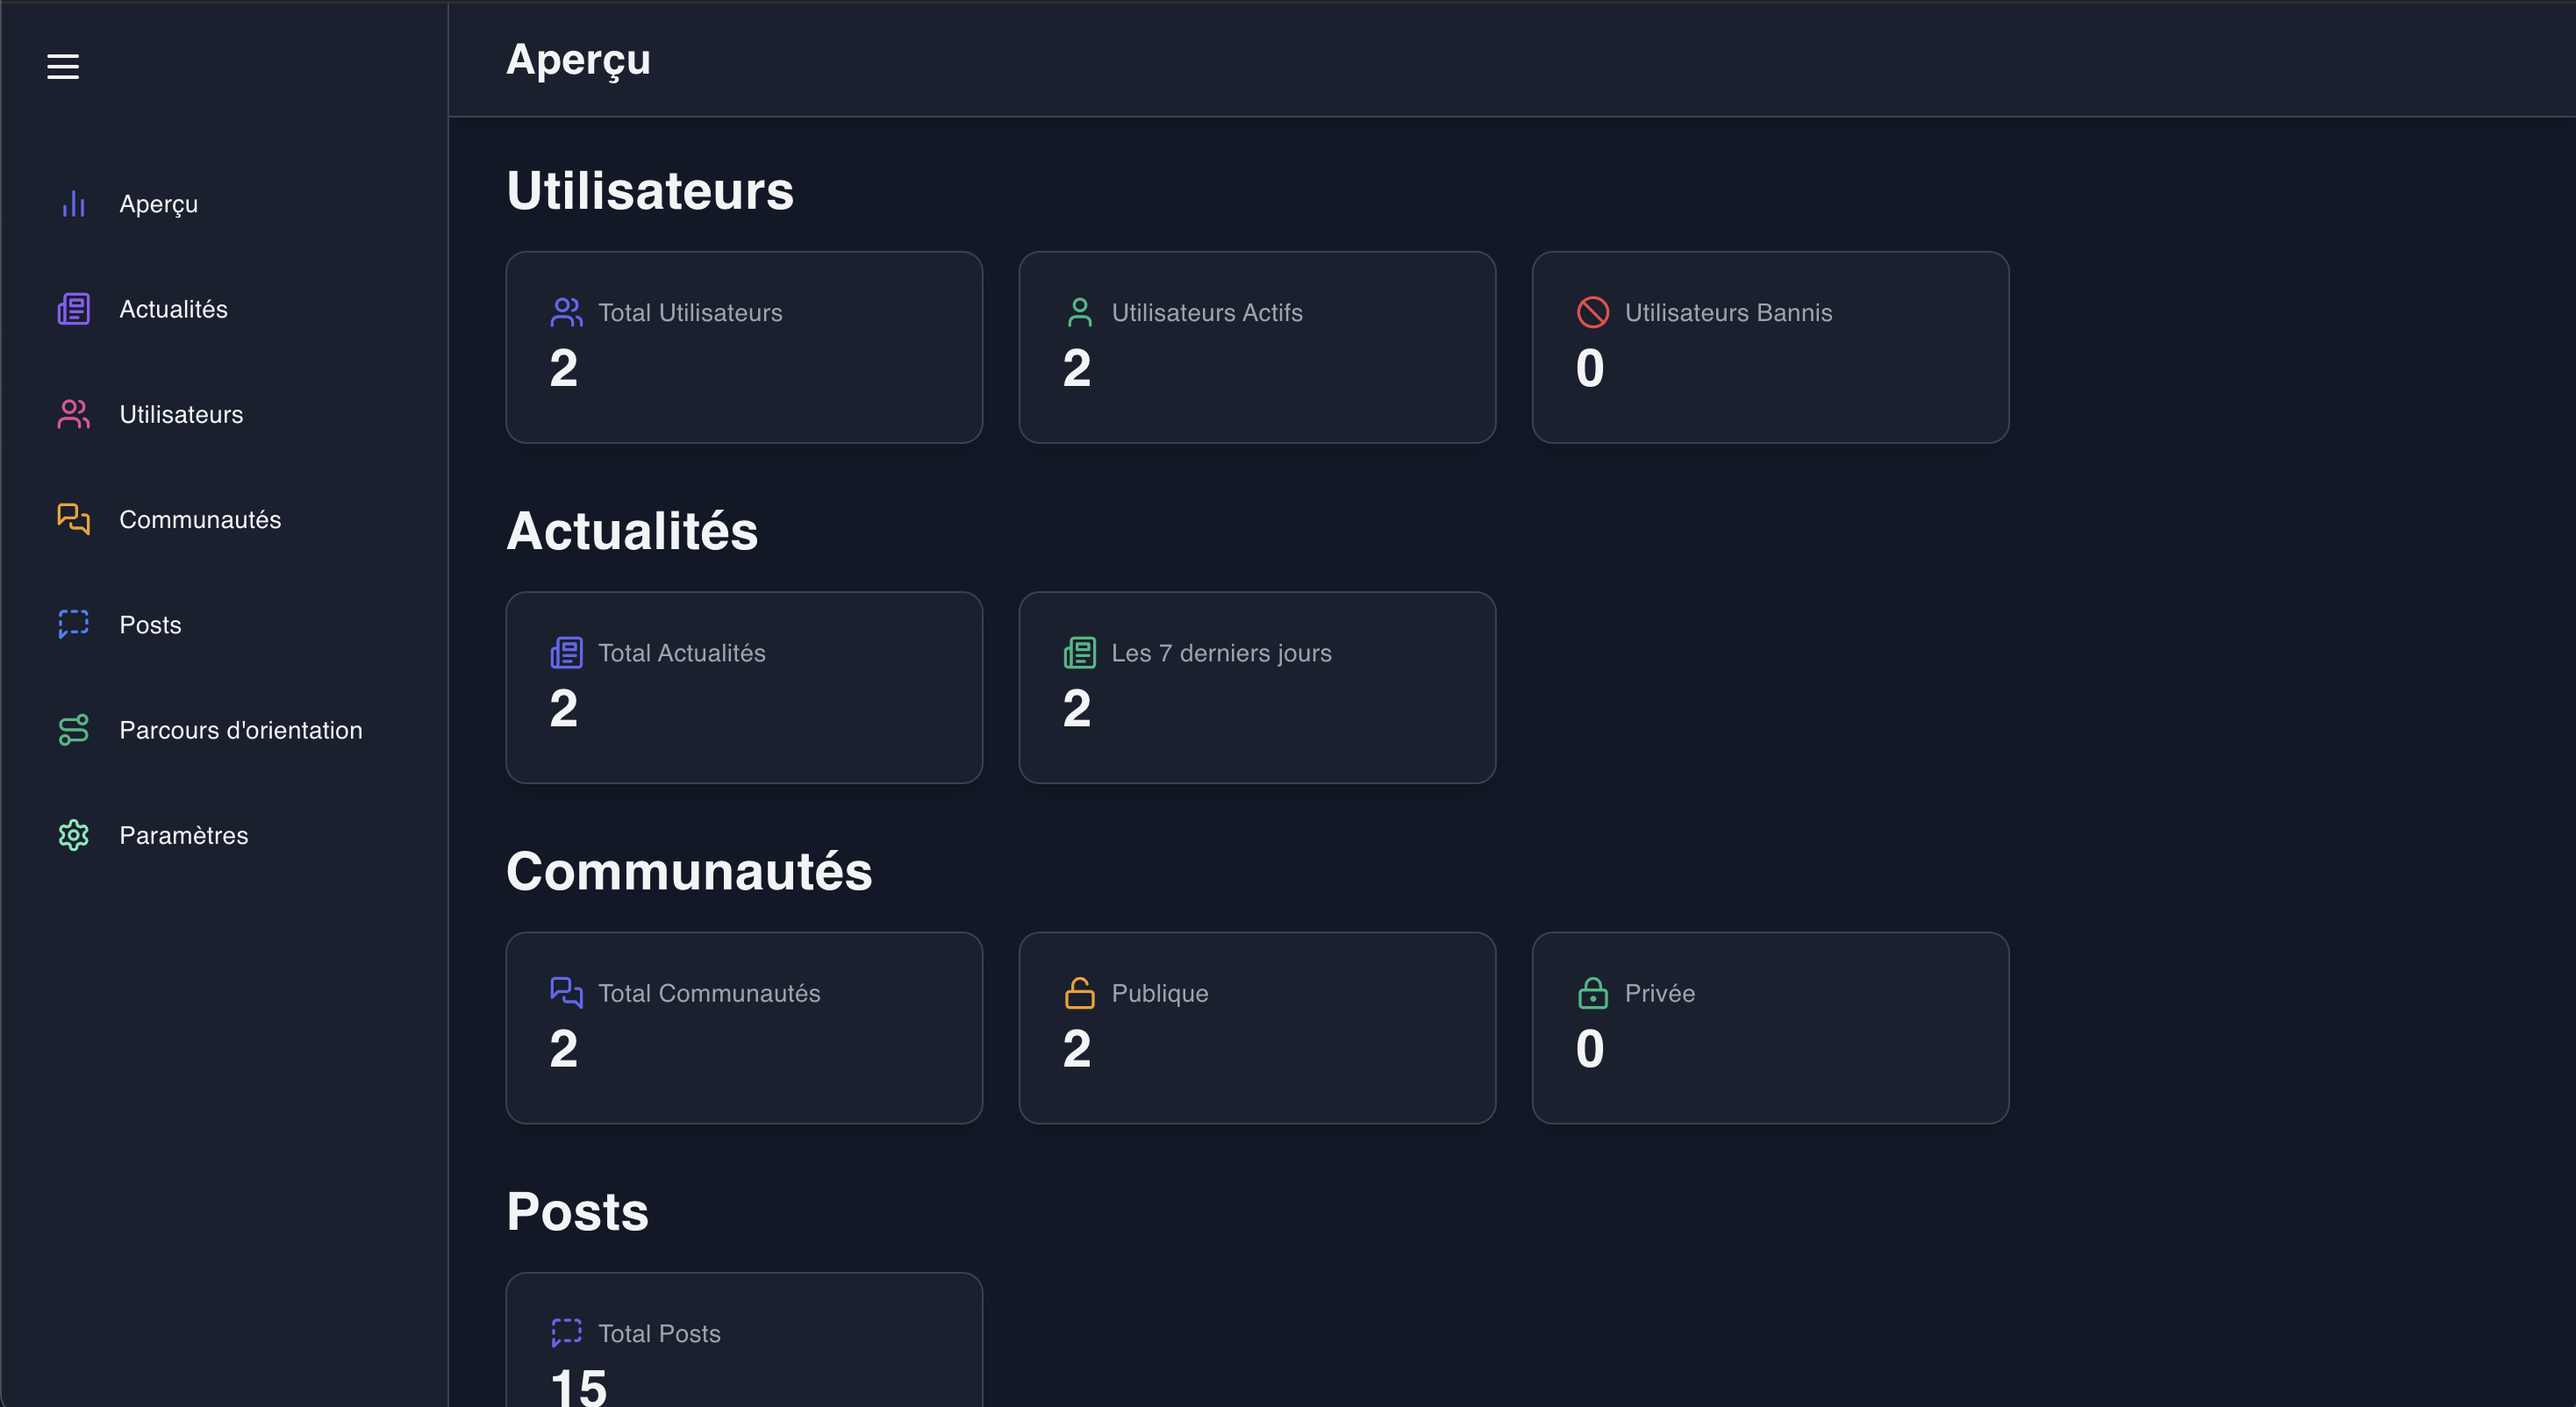
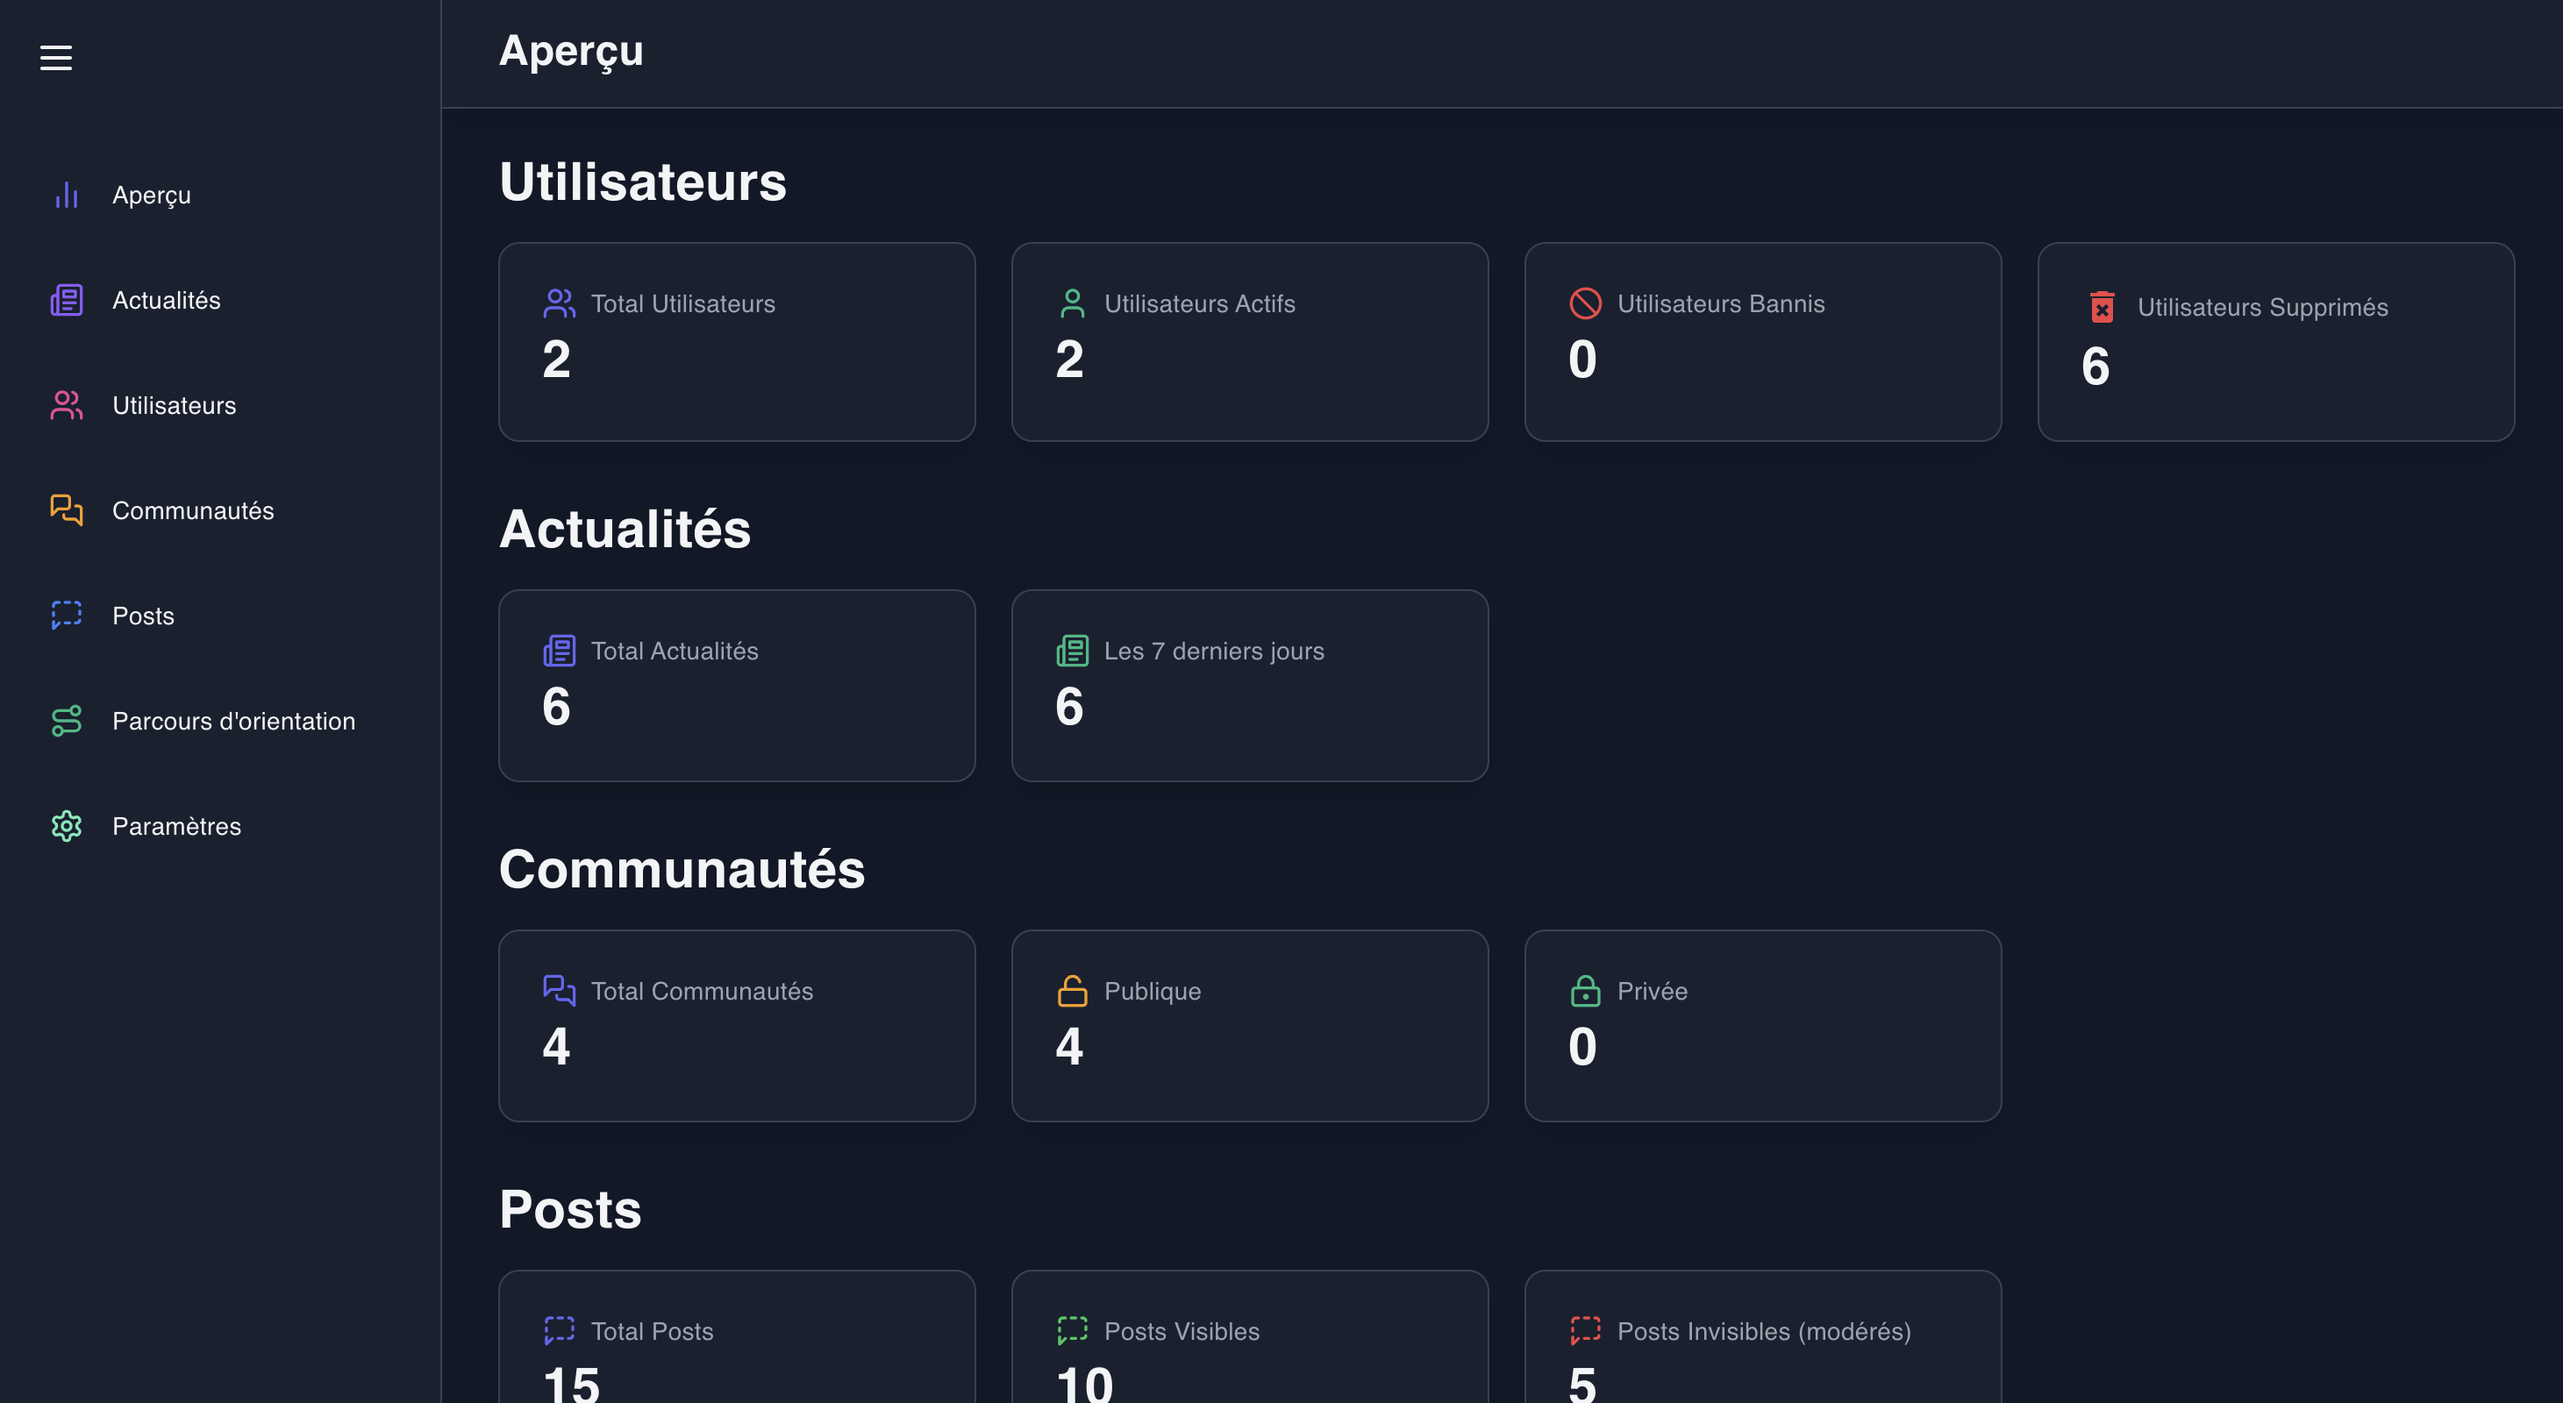
feat: update readme

diff --git a/README.md b/README.md
@@ -42,9 +42,26 @@ docker-compose up -d
 
 - Flutter
 
+#### 🤩 Web Landing Page
+
+#### 🎆 Aperçu
+
+🔴 [prod] https://enfile-tes-baskets.vercel.app/
+
+![alt text](readme-images/landing-page-overview.png)
+
+#### 🧰 Technos utilisées
+
+- Next.js qui est un framework React, donc ça reste du React
+- Tailwind CSS
+- PostCSS pour le processing de Tailwind CSS
+- TypeScript
+
 ### 📊 Web Admin Dashboard
 
 #### 🎆 Aperçu
+
+🔴 [prod] https://admin-dashboard-etb.vercel.app/
 
 ![alt text](readme-images/admin-dashboard-overview.png)
 
@@ -52,5 +69,7 @@ docker-compose up -d
 
 - React
 - Tailwind CSS
+- Marterial UI
+- React Toastify
 - Recharts
 - Framer Motion
